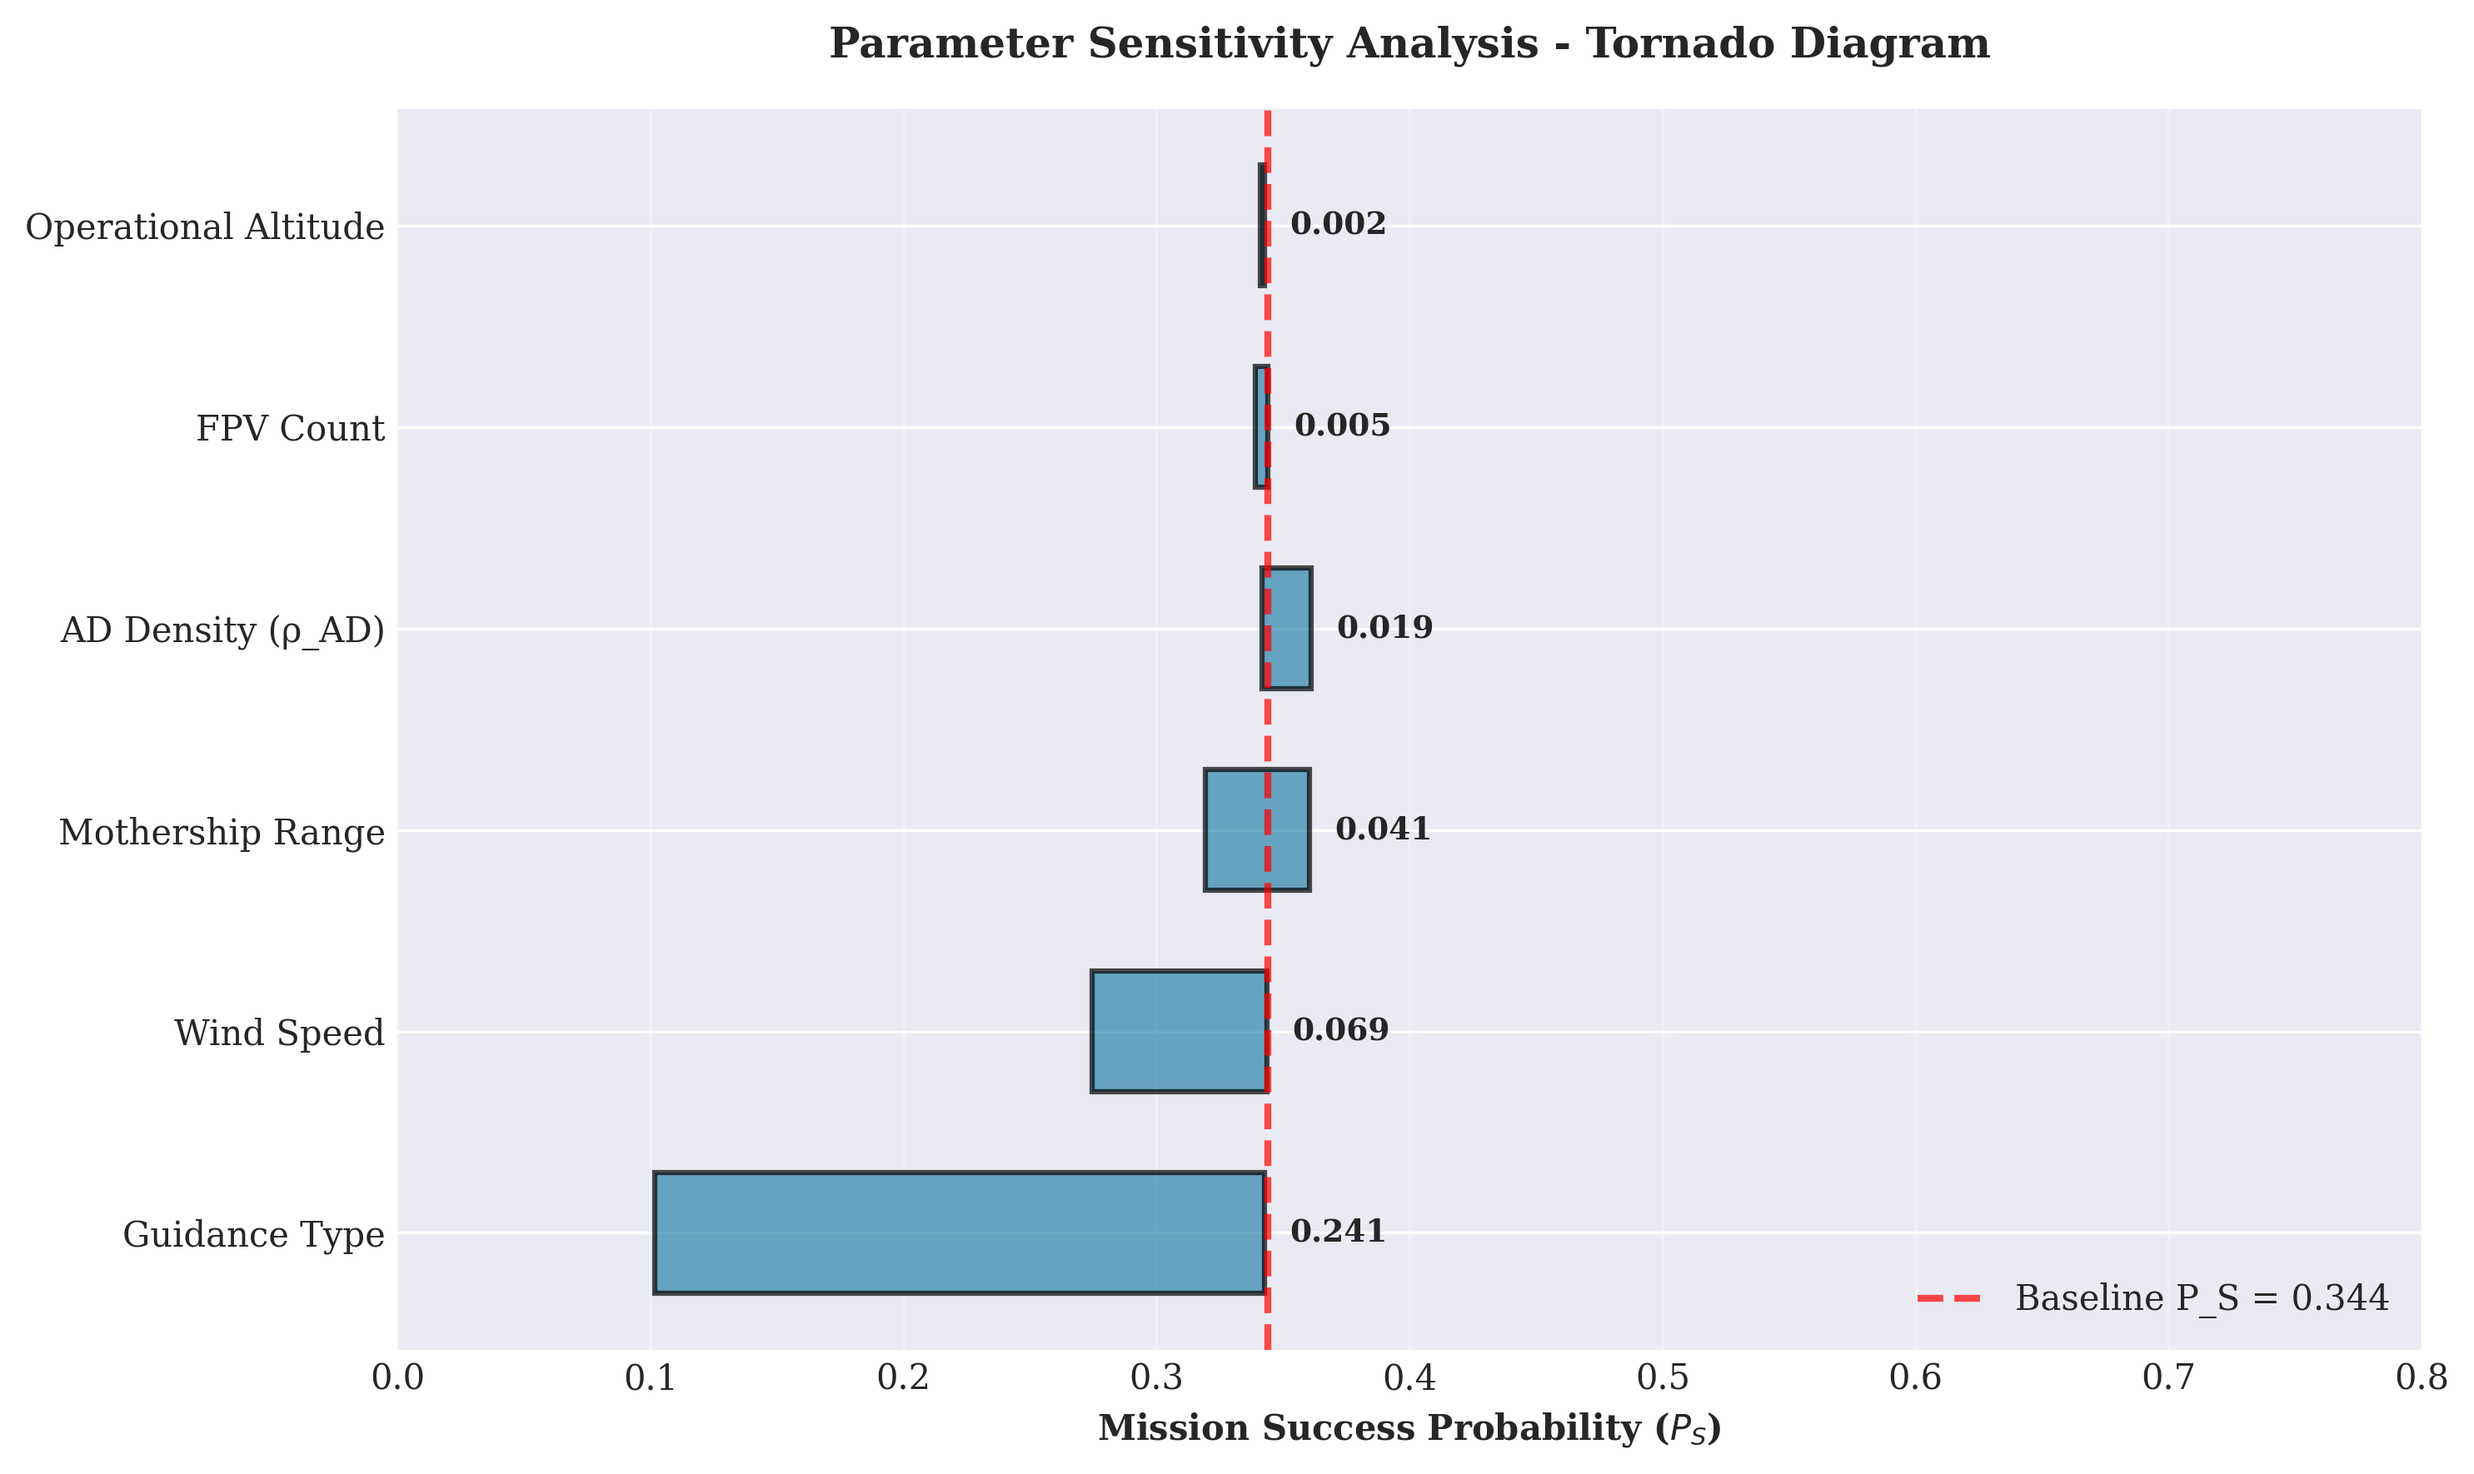
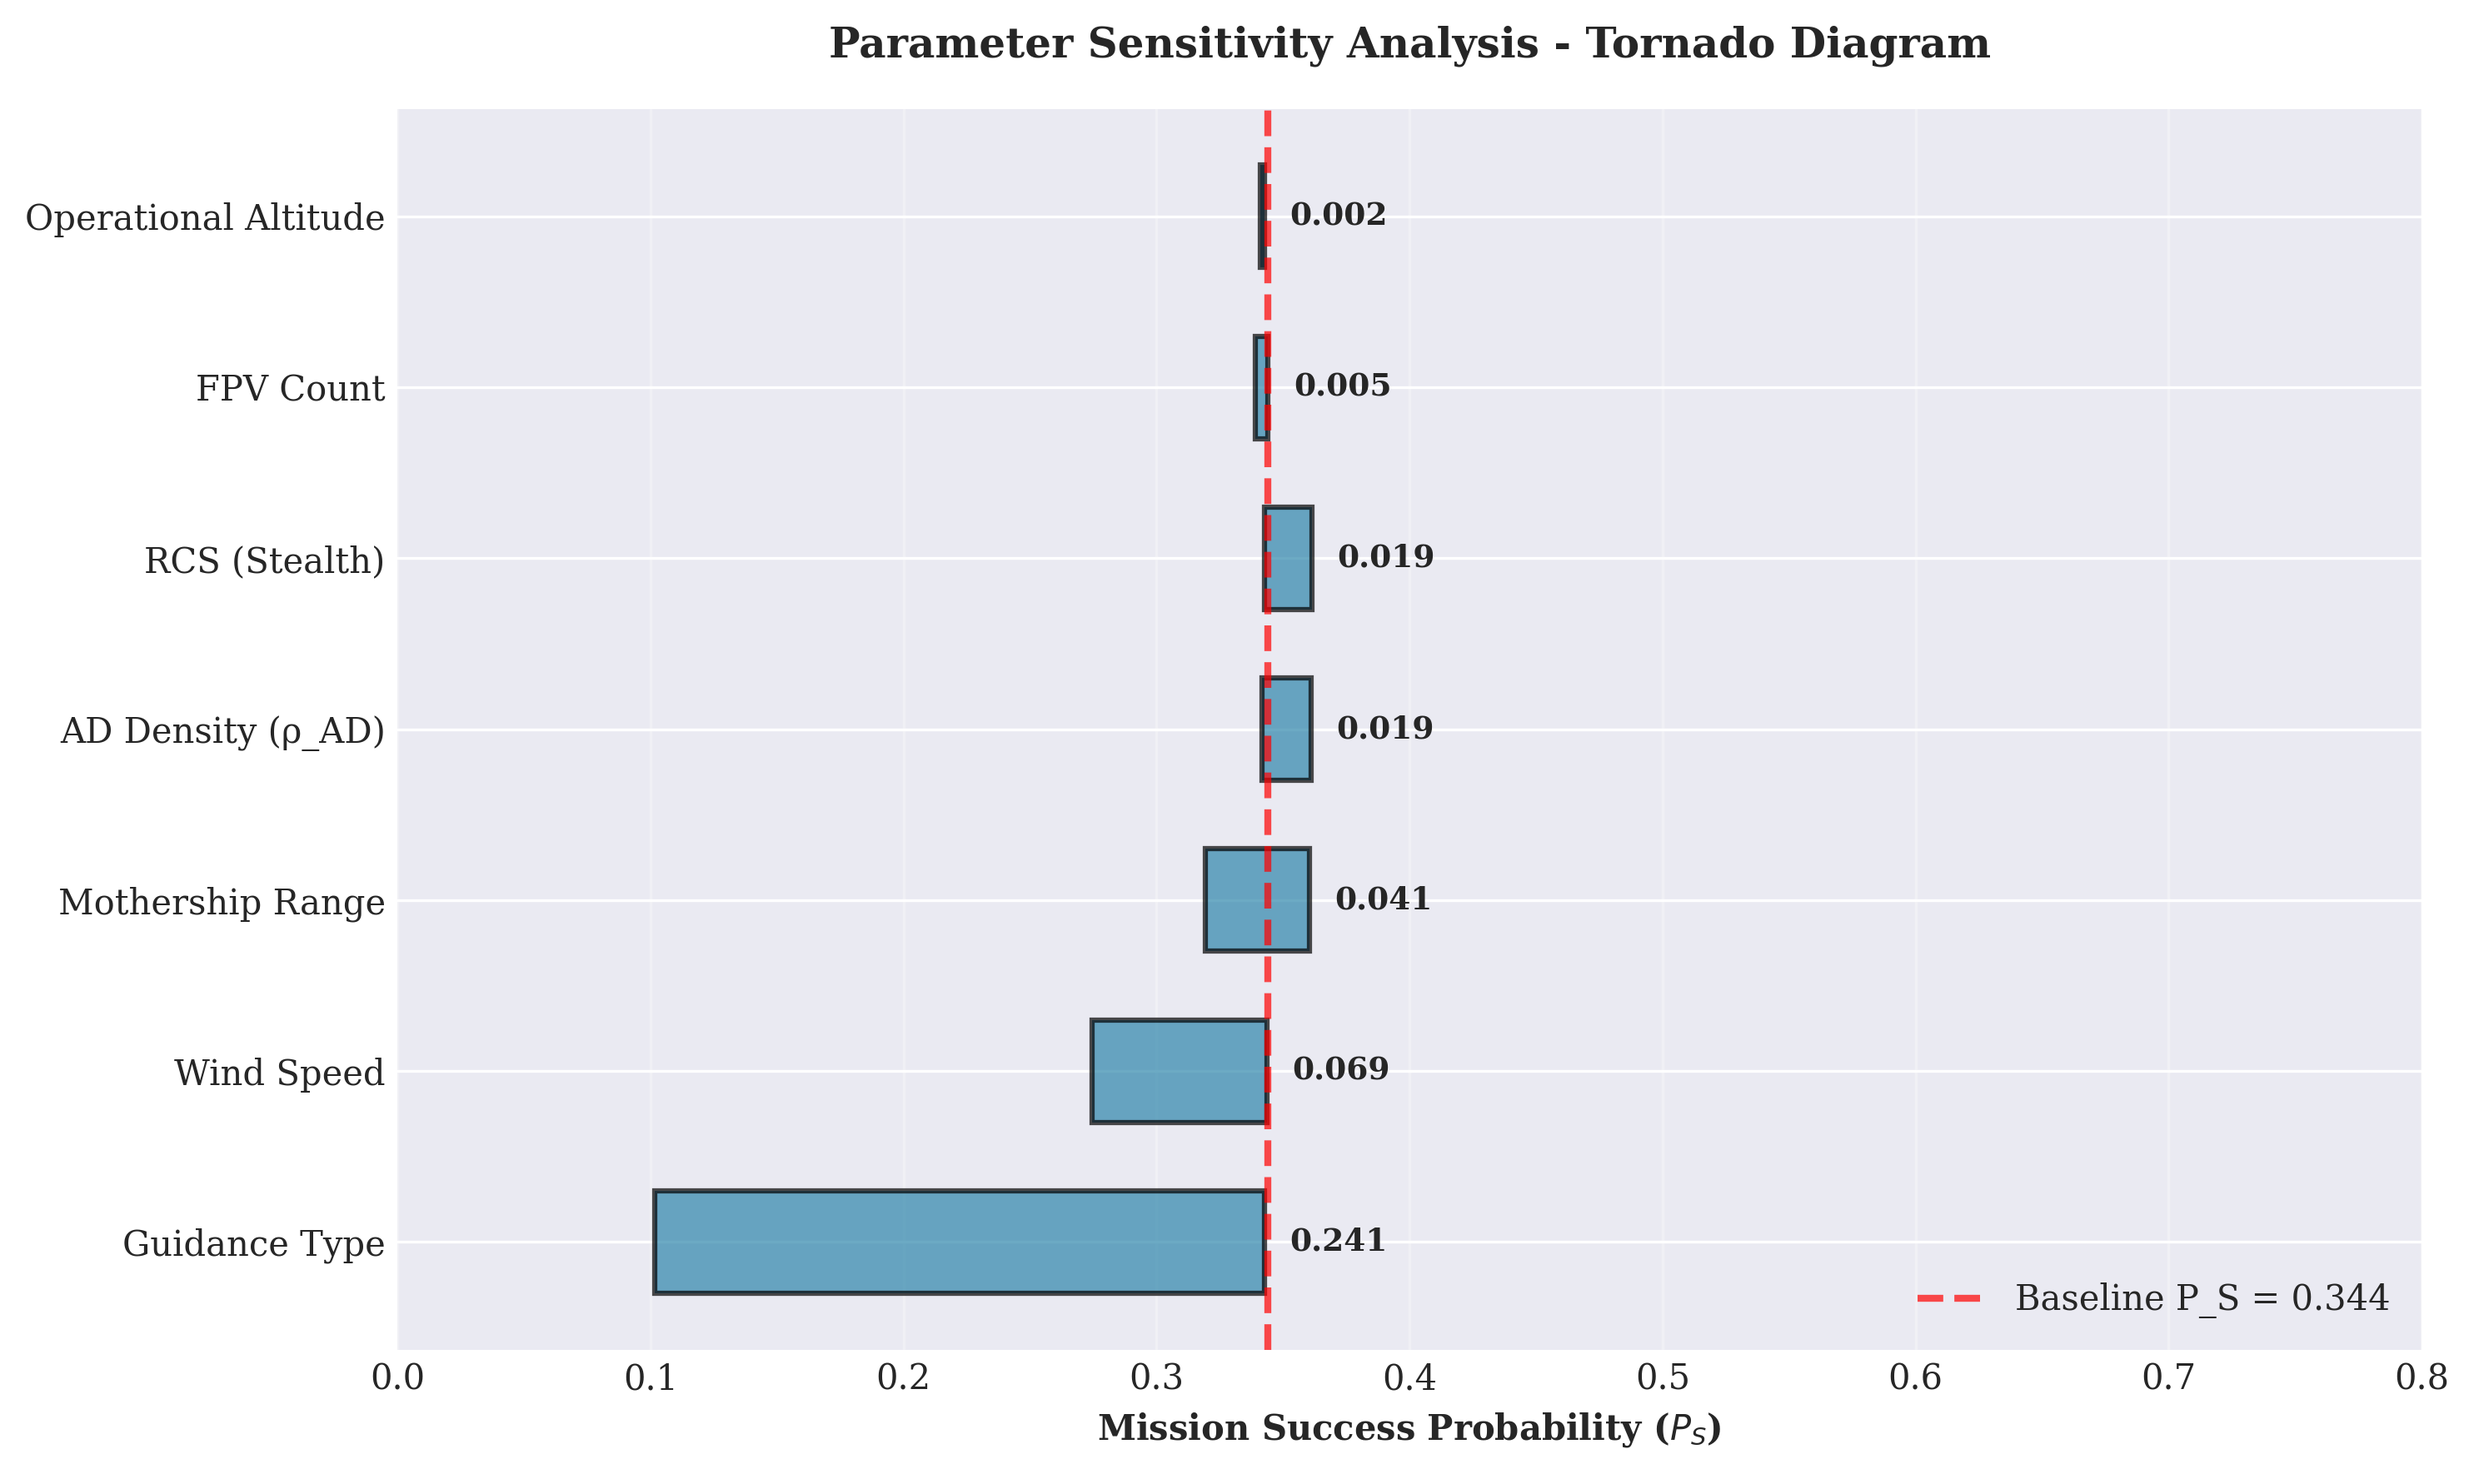
added rcs

diff --git a/sensitivity_analysis.py b/sensitivity_analysis.py
@@ -242,6 +242,52 @@ class SensitivityAnalyzer:
         
         return pd.DataFrame(results)
     
+    def analyze_rcs(self, rcs_values: list = None) -> pd.DataFrame:
+        """
+        Analyze sensitivity to mothership radar cross section (stealth).
+        
+        Lower RCS = harder to detect = higher survivability
+        
+        Args:
+            rcs_values: List of RCS values to test (m²)
+        """
+        if rcs_values is None:
+            # Test from stealthy to conventional
+            # 0.01 = stealth, 0.1 = baseline, 1.0 = conventional
+            rcs_values = [0.01, 0.05, 0.1, 0.5, 1.0]
+        
+        print("\nAnalyzing sensitivity to RCS (STEALTH)...")
+        results = []
+        
+        for rcs in rcs_values:
+            scenario = self.base_scenario.copy()
+            scenario['mothership']['RCS'] = rcs
+            
+            res_df = self.sim.run_scenario(scenario, target_type='armor')
+            stats = self.sim.calculate_statistics(res_df)
+            
+            results.append({
+                'parameter': 'RCS',
+                'value': rcs,
+                'P_S_mean': stats['mean'],
+                'P_S_std': stats['std'],
+                'ci_lower': stats['ci_lower'],
+                'ci_upper': stats['ci_upper'],
+                'P_survival_mean': stats['P_survival_mean']
+            })
+            
+            # Classify stealth level
+            if rcs <= 0.02:
+                stealth_level = "stealth"
+            elif rcs <= 0.15:
+                stealth_level = "low-observable"
+            else:
+                stealth_level = "conventional"
+                
+            print(f"  RCS = {rcs:.3f} m² ({stealth_level}) → P_S = {stats['mean']:.3f}, P_survival = {stats['P_survival_mean']:.3f}")
+        
+        return pd.DataFrame(results)
+    
     def run_full_sensitivity_analysis(self) -> dict:
         """
         Run complete sensitivity analysis for all parameters.
@@ -259,7 +305,8 @@ class SensitivityAnalyzer:
             'ad_density': self.analyze_ad_density(),
             'guidance': self.analyze_guidance_type(),
             'altitude': self.analyze_altitude(),
-            'wind': self.analyze_wind_speed()
+            'wind': self.analyze_wind_speed(),
+            'rcs': self.analyze_rcs()
         }
         
         self.results = results
@@ -309,6 +356,7 @@ class SensitivityAnalyzer:
         params = coef_df['parameter'].values
         param_labels = {
             'guidance': 'Guidance Type',
+            'rcs': 'RCS (Stealth)',
             'ad_density': 'AD Density (ρ_AD)',
             'altitude': 'Operational Altitude',
             'wind': 'Wind Speed',

diff --git a/mothership_simulation.py b/mothership_simulation.py
@@ -153,7 +153,10 @@ class MonteCarloSimulation:
         """
         Sample mothership detection and attrition probabilities.
         
-        Model: P_detect = min(1.0, 0.3 + 0.4*(H_M/2000) + 0.3*ρ_AD) × visibility
+        Model: P_detect = min(1.0, base_detect × RCS_factor × visibility)
+        where base_detect = 0.3 + 0.4*(H_M/2000) + 0.3*ρ_AD
+        and RCS_factor = (RCS/0.1)^0.25 (radar equation fourth-root relationship)
+        
         P_attrition | detected ~ Triangular(0.05, 0.15, 0.40)
         
         Args:
@@ -165,10 +168,16 @@ class MonteCarloSimulation:
         H_M = scenario['mothership']['H_M_op']
         rho_AD = scenario['rho_AD']
         vis = scenario['visibility']
+        RCS = scenario['mothership']['RCS']
         
-        # Detection probability model
+        # Detection probability model with RCS
         base_detect = 0.3 + 0.4 * (H_M / 2000) + 0.3 * rho_AD
-        P_detect = np.minimum(1.0, base_detect * vis)
+        
+        # RCS factor: normalized to 0.1 m² baseline
+        # Smaller RCS = harder to detect (fourth-root from radar equation)
+        RCS_factor = (RCS / 0.1) ** 0.25
+        
+        P_detect = np.minimum(1.0, base_detect * RCS_factor * vis)
         P_detect = np.repeat(P_detect, self.n_iterations)
         
         # Attrition given detection - Triangular distribution

diff --git a/README.md b/README.md
@@ -104,9 +104,12 @@ This models the cumulative detection and engagement risk during extended loiter 
 ### Probabilistic Models
 
 **Mothership Vulnerability:**
-- Detection: P_detect = min(1.0, 0.3 + 0.4*(H/2000) + 0.3*ρ_AD) * visibility
+- Detection: P_detect = min(1.0, [0.3 + 0.4*(H/2000) + 0.3*ρ_AD] × RCS_factor × visibility)
+  - where RCS_factor = (RCS / 0.1)^0.25 (radar equation fourth-root relationship)
+  - Baseline RCS = 0.1 m² (moderately low-observable design)
 - Attrition | detected ~ Triangular(0.05, 0.15, 0.40)
 - Time exposure penalty: +1% per minute in A2/AD envelope
+- **Note:** In contested A2/AD, detection often saturates at 100% regardless of RCS
 
 **FPV Jamming:**
 - Radio-controlled: P_jamming ~ Uniform(0.5, 0.7)
@@ -190,45 +193,75 @@ The mothership shows **lower P_S** than ground-launched FPVs (0.34 vs 0.65) but 
 - Artillery: Medium P_S (~0.40), medium range (30 km), reveals battery position
 - Missiles: High P_S (~0.85), longest range (70 km), high cost ($150k/round)
 
+**Detection Saturation in A2/AD Environments:**  
+The simulation reveals that detection probability saturates near 100% in contested A2/AD environments (ρ_AD ≥ 2.0), making traditional survivability parameters (RCS, altitude) minimally effective. Once detected, survivability depends primarily on:
+1. **Jam-resistant guidance** (237% impact) - Dominant factor
+2. **Weather conditions** (70% impact on terminal effectiveness) - Secondary factor
+3. **Speed/time minimization** (40% impact via exposure reduction) - Tertiary factor
+
+This finding suggests that **electronic warfare resistance** and **mission speed** matter far more than low-observable design for carrier UAV platforms operating in modern A2/AD environments.
+
 ---
 
 ## Sensitivity Analysis Results
 
 The tornado diagram (fig6) and sensitivity curves (fig7) show parameter impacts on P_S:
 
-### Most Critical Parameters
+### Dominant Parameters
 
-**1. Guidance Type** (Dominant Factor)
-- Radio-controlled: P_S = 0.11 (heavy jamming vulnerability)
-- **Fiber-optic: P_S = 0.38** (jam-resistant, baseline)
-- AI-enabled: P_S = 0.31 (moderate jamming)
+**1. Guidance Type** (Critical Factor)
+- Radio-controlled: P_S = 0.10 (heavy jamming vulnerability)
+- **Fiber-optic: P_S = 0.34** (jam-resistant, baseline)
+- AI-enabled: P_S = 0.28 (moderate jamming)
 - **Impact: 237% improvement** (fiber vs radio)
+- **ΔP_S = 0.24** (Range: 0.10-0.34)
+
+### Moderate Sensitivity Parameters
 
 **2. Wind Speed** (Environmental)
-- 0-20 km/h: P_S ≈ 0.38 (stable performance)
-- 30 km/h: P_S = 0.26 (degraded, 30% reduction)
-- 40 km/h: P_S = 0.23 (severe degradation)
+- 0-20 km/h: P_S ≈ 0.34 (stable performance)
+- 30 km/h: P_S = 0.31 (degraded, 10% reduction)
+- 40 km/h: P_S = 0.27 (severe degradation, 20% reduction)
+- **ΔP_S = 0.07** (Range: 0.27-0.34)
 
-**3. Air Defense Density** (Moderate Impact)
-- Low (0.5/100km²): P_S = 0.39, Survival = 0.83
-- Medium (2.0/100km²): P_S = 0.38, Survival = 0.80
-- High (5.0/100km²): P_S = 0.38, Survival = 0.80
+### Minimally Sensitive Parameters
 
-### Less Sensitive Parameters
+**3. Mothership Range** (Indirect Time Exposure Impact)
+- 60 km: P_S = 0.36
+- 120 km: P_S = 0.34 (baseline)
+- 200 km: P_S = 0.32
+- Longer range increases A2/AD exposure time
+- **ΔP_S = 0.04** (Range: 0.32-0.36)
 
-**4. Operational Altitude** (Minimal Direct Impact)
+**4. Air Defense Density** (Minimal Impact - Detection Saturated)
+- Low (0.5/100km²): P_S = 0.36, Survival = 0.77
+- Medium (2.0/100km²): P_S = 0.34, Survival = 0.73
+- High (5.0/100km²): P_S = 0.34, Survival = 0.72
+- Detection probability already near 100% in contested environments
+- **ΔP_S = 0.02** (Range: 0.34-0.36)
+
+**5. RCS/Stealth** (Minimal Impact - Detection Saturated)
+- Stealth (0.01 m²): P_S = 0.36, Survival = 0.77
+- Low-observable (0.05 m²): P_S = 0.34, Survival = 0.73
+- Baseline (0.10 m²): P_S = 0.34, Survival = 0.72
+- Conventional (0.50 m²): P_S = 0.34, Survival = 0.73
+- Large UAV (1.00 m²): P_S = 0.34, Survival = 0.73
+- **ΔP_S = 0.02** (Range: 0.34-0.36)
+- **Key Finding:** Detection model saturated in A2/AD environments; stealth provides marginal 5% benefit
+
+**6. Operational Altitude** (Negligible Direct Impact)
 - 1000m to 3000m: P_S varies by <1%
 - Higher altitude increases detection but improves standoff
+- **ΔP_S < 0.01** (Range: 0.341-0.343)
 
-**5. Mothership Range** (No Direct Impact on P_S)
-- Affects mission feasibility, not individual success rate
-- Longer range = more exposure time (indirect impact)
+### Parameters Not Affecting P_S
 
-**6. FPV Count** (Affects Total Kills, Not P_S)
-- 2 FPVs: E[K] = 0.75
-- 5 FPVs: E[K] = 1.89
-- 10 FPVs: E[K] = 3.77
-- P_S remains constant (~0.38) regardless of payload
+**7. FPV Count** (Affects Total Kills, Not Success Rate)
+- 2 FPVs: E[K] = 0.69
+- 5 FPVs: E[K] = 1.71
+- 10 FPVs: E[K] = 3.39
+- P_S remains constant (~0.34) regardless of payload
+- **ΔP_S = 0** (No impact on mission success probability)
 
 ---
 
